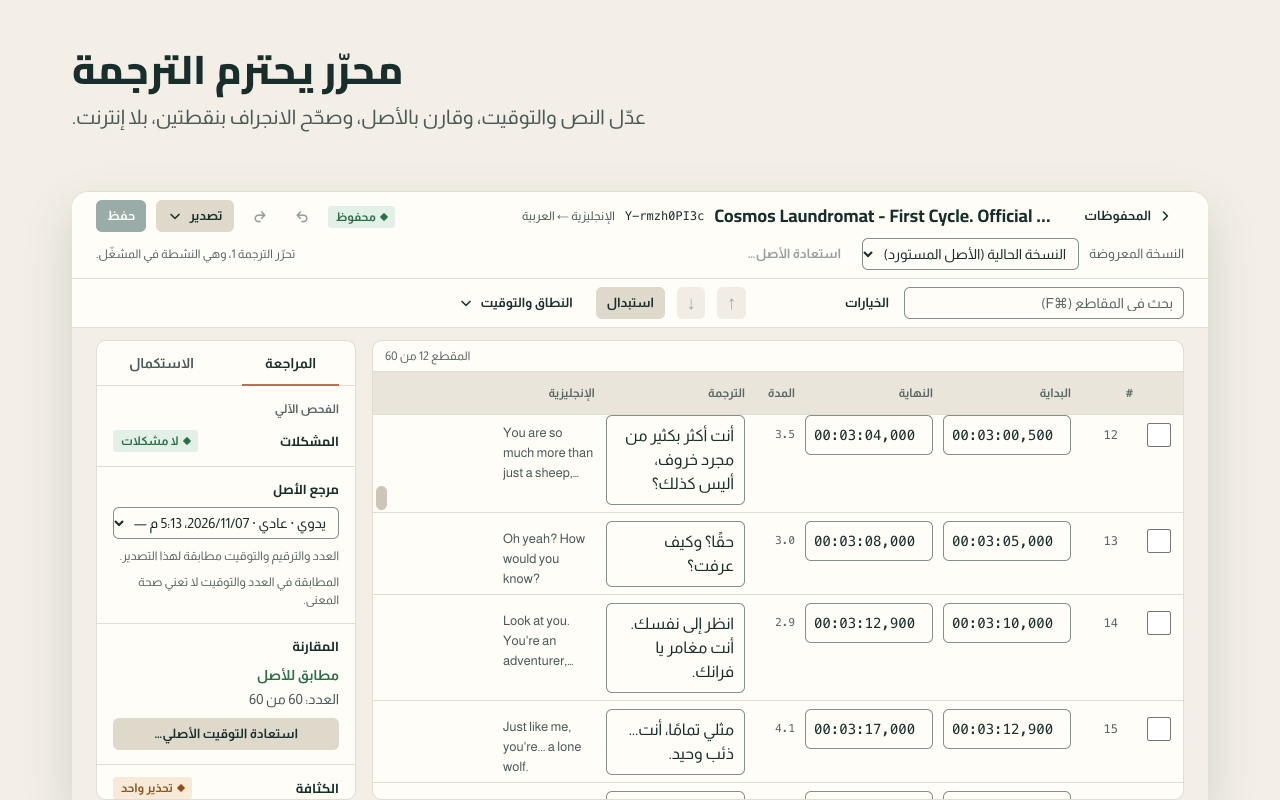
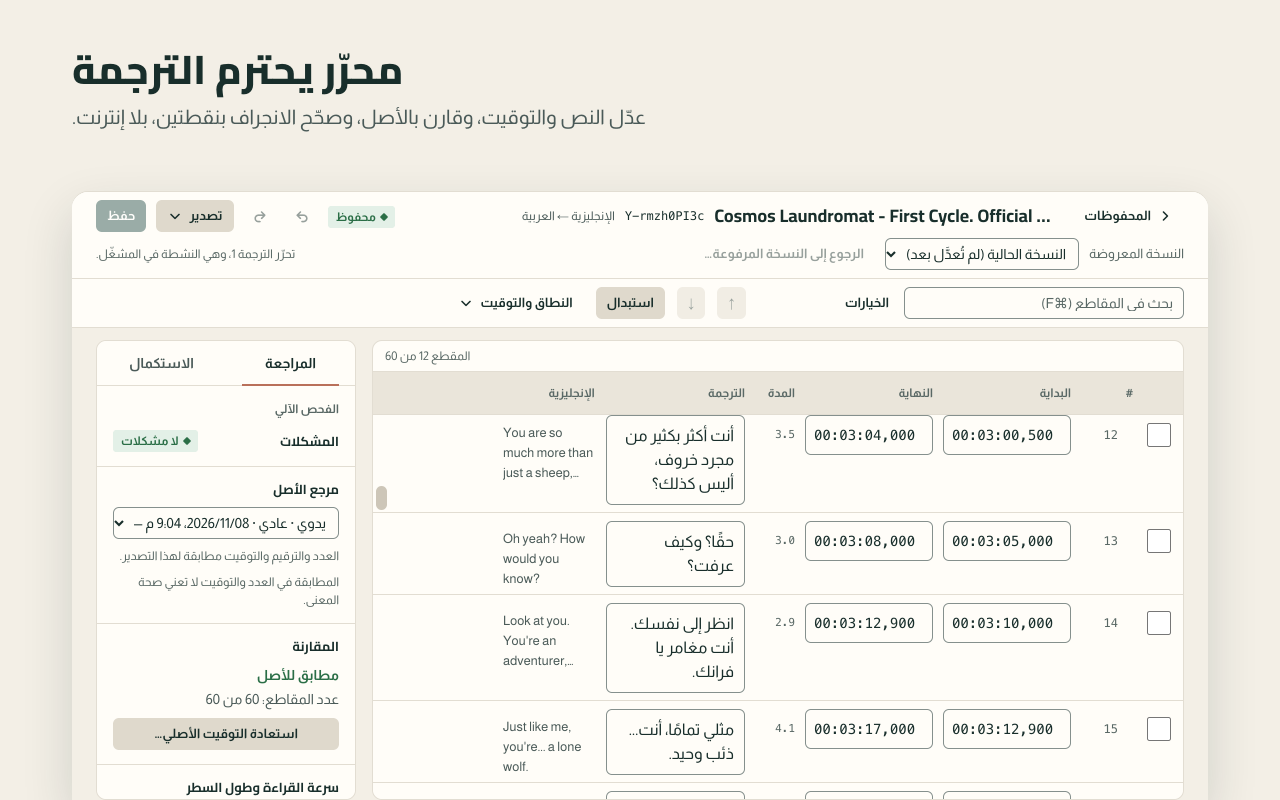
مواد المتاجر: إعادة التقاط لقطات 2.1.0 وصورة الترويج الكبيرة بنصوص الواجهة الجديدة، وشارة غلاف README بالرقم الجديد

diff --git a/store/README.md b/store/README.md
@@ -322,7 +322,7 @@
 | `screenshots/firefox/` | اللقطات الثلاث نفسها بمقاس 1280×960 لـAMO (الشريط العلوي 256 بدل 176، والواجهة لا تُمط) |
 | [`test-files/`](test-files/README.md) | ملف الترجمة الإنجليزية لفيديو اللقطات كما نزّله ترجمان، وترجمته العربية |
 
-**مصدر الصور (2.0.0، AA5):** إطارات لوحة الهوية 18 وعناوينها ونصوصها كما هي (`tools/store-art/`، ويرسمها `tools/store-art/render.mjs` في Chrome بلا نافذة بمعامل 1)، وما ترسمه اللوحة من واجهة داخل الإطار لقطة حقيقية من حزمة 2.0.0 للحالة نفسها (`test/live/aa4/site-shots.mjs`). وصورة الترويج الكبيرة فيها لقطة حقيقية كذلك. والأيقونتان من `tools/brand/icons.mjs` بلا متصفح. وفيديو اللقطات Cosmos Laundromat، (CC) Blender Foundation | gooseberry.blender.org، برخصة CC BY 3.0، بلا أشخاص حقيقيين ولا اسم قناة ولا تعليقات ولا حساب. ولا لقطة اختبار قديمة. وهذه اللقطات تطابق 2.0.0 المنشور، وتحتاج إعادة التقاط قبل رفع 2.1.0 لأن نصوص الواجهة تغيّرت بعده.
+**مصدر الصور (2.1.0، والقوالب من AA5):** إطارات لوحة الهوية 18 وعناوينها ونصوصها كما هي (`tools/store-art/`، ويرسمها `tools/store-art/render.mjs` في Chrome بلا نافذة بمعامل 1)، وما ترسمه اللوحة من واجهة داخل الإطار لقطة حقيقية من بناء 2.1.0 للحالة نفسها (`test/live/aa4/site-shots.mjs`). وصورة الترويج الكبيرة فيها لقطة حقيقية كذلك. والأيقونتان من `tools/brand/icons.mjs` بلا متصفح. وفيديو اللقطات Cosmos Laundromat، (CC) Blender Foundation | gooseberry.blender.org، برخصة CC BY 3.0، بلا أشخاص حقيقيين ولا اسم قناة ولا تعليقات ولا حساب. ولا لقطة اختبار قديمة. وأُعيد التقاط الإطارات الست وصورة الترويج الكبيرة من بناء 2.1.0 بنصوصه الجديدة في 2026-11-08، والواجهة فيها بالعربية. والبلاطة الصغيرة بلا واجهة فلم تتغير.
 
 ### تغطية حقول §٣
 

diff --git a/docs/site/README.md b/docs/site/README.md
@@ -95,7 +95,7 @@
 
 ## ما بقي
 
-- **بعد توطين الواجهة:** تثبيت تاريخ سريان الخصوصية يوم نشر 2.1.0، ثم إعادة توليد نصوص الموقع بطلب دمج فيه، وتحديث وصف لقطة قائمة التنزيل في `copy.ts` هناك. ولقطات الموقع تحتاج إعادة التقاط لأن نصوص الواجهة تغيّرت.
+- **بعد توطين الواجهة:** تثبيت تاريخ سريان الخصوصية يوم نشر 2.1.0، ثم إعادة توليد نصوص الموقع بطلب دمج فيه، وتحديث وصف لقطة قائمة التنزيل في `copy.ts` هناك. ولقطات الموقع تُؤخذ من بناء 2.1.0 بالسكربت `test/live/aa4/site-shots.mjs` وتُنسخ في طلب الدمج نفسه، لأن نصوص الواجهة تغيّرت.
 
 - **بعد AA4:** تثبيت تاريخ سريان الخصوصية يوم نشر 2.0.0 (`node scripts/site/privacy.mjs --effective YYYY-MM-DD`) ثم إعادة توليد نصوص الموقع؛ وبعد رفع الرقم إلى 2.0.0 في AA5 يُعاد التوليد أيضًا، لأن «تصف شيفرة الإصدار» تأخذ الرقم من `package.json`.
 

diff --git a/tools/readme-assets/README.md b/tools/readme-assets/README.md
@@ -12,7 +12,7 @@
 - **الأيقونات:** [`src/ui/icons.js`](../../src/ui/icons.js)، أيقونات الهوية على شبكة 20.
 - **الإصدار:** من [`package.json`](../../package.json) في شارة الغلاف.
 - **التصميم:** الغلاف والمعاينة الاجتماعية من لوحة الهوية 18 «تطبيقات الهوية» ([`docs/identity.md`](../../docs/identity.md))، و«كيف يعمل» لا لوحة له فهو القالب السابق برموز الهوية الجديدة.
-- **اللقطات:** لا تستعمل القوالب لقطات. والصور المولّدة في `.github/assets/` مرسومة بالهوية الحالية للإصدار 2.0.0.
+- **اللقطات:** لا تستعمل القوالب لقطات. والصور المولّدة في `.github/assets/` مرسومة بالهوية الحالية.
 
 ## القوالب
 

diff --git a/README.md b/README.md
@@ -55,7 +55,7 @@
   </tr>
 </table>
 
-<sub>لقطات حقيقية من الإصدار 2.0.0 في Chrome، في إطارات مواد المتاجر. الفيلم Cosmos Laundromat، (CC) Blender Foundation | gooseberry.blender.org، برخصة CC BY 3.0.</sub>
+<sub>لقطات حقيقية من الإصدار 2.1.0 في Chrome، في إطارات مواد المتاجر. الفيلم Cosmos Laundromat، (CC) Blender Foundation | gooseberry.blender.org، برخصة CC BY 3.0.</sub>
 
 ## التثبيت
 
